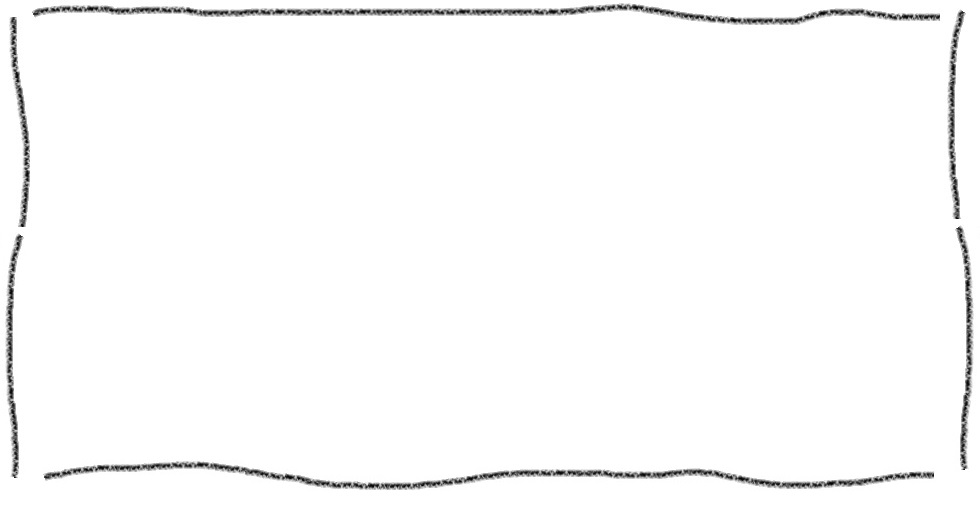
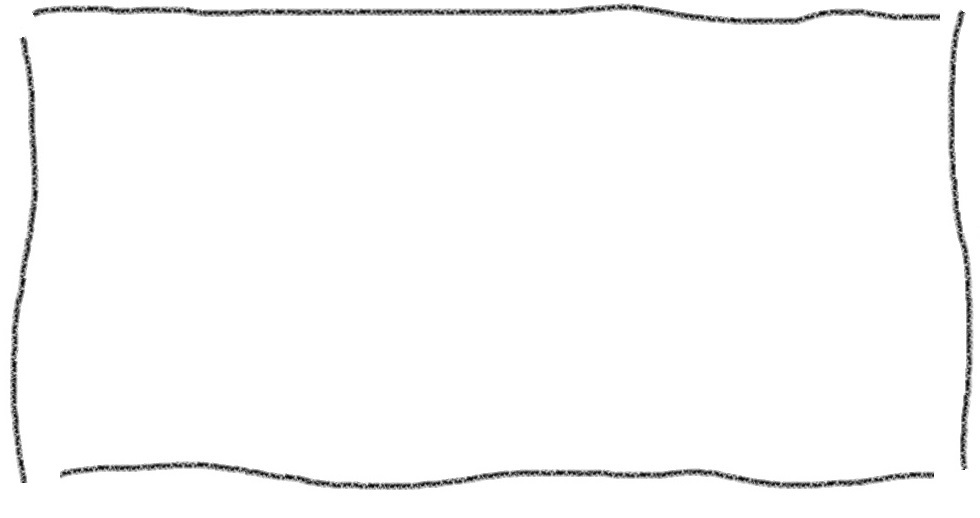
Changed the info page and the boarder style

Changed region(s): [[0.0, 0.0296, 1.0, 0.9763], [0.7041, 0.0296, 0.8265, 0.0592]]

diff --git a/about.html b/about.html
@@ -29,13 +29,15 @@
     </header>
 
     <div class="content p-16">
-      <h1>About</h1>
-      <p>Hi, this is me.</p>
-      <p>So much to say.</p>
-      <p>Hi, this was me.</p>
-      <p>Ok, bye.</p>
-    </div>
-    
+          <p>This is a little webcomic page. I wanted to build it myself, without all the tools that spam you with commercials. 
+            <br>
+            <p>But unfortuanatly I am not so sure of how to code. I do know a little html but I hear this is no coding. So I went to an event. It was the female coders hackaton vienna. And there I got help.</p>
+          </p>
+          <br>
+          <img src="comics/femalecoders1.jpg" alt="webcomic image" style="max-width:30%; height:auto; display:block; float:left; margin:0 20px 20px 0;">
+          <p style="clear:both;">
+          <p>Together we built this to bring little sparks of fun and beauty into the lives of visitors.</p>
+          <p>Have fun and enjoy!</p>   
   </body>
 </html> 
   

diff --git a/mainstyle.css b/mainstyle.css
@@ -14,7 +14,7 @@
   }
   
   .content{
-    background-image: url("comics/buttonhintergrund.jpg");
+    background-image: url("comics/bodygerahmt.jpg");
     background-size: 100% 100%;
     background-repeat: no-repeat;
   }
